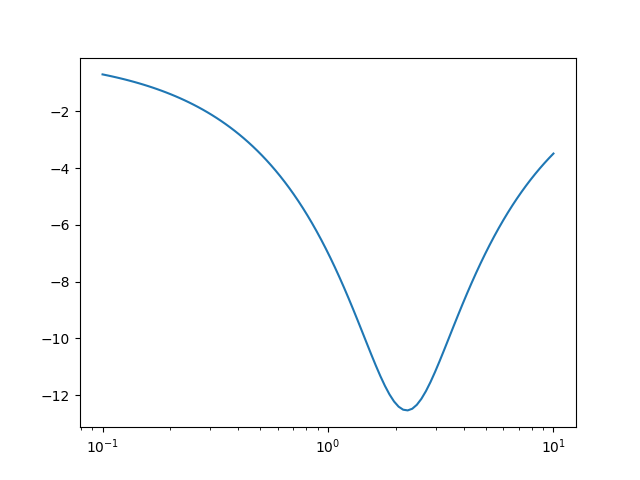
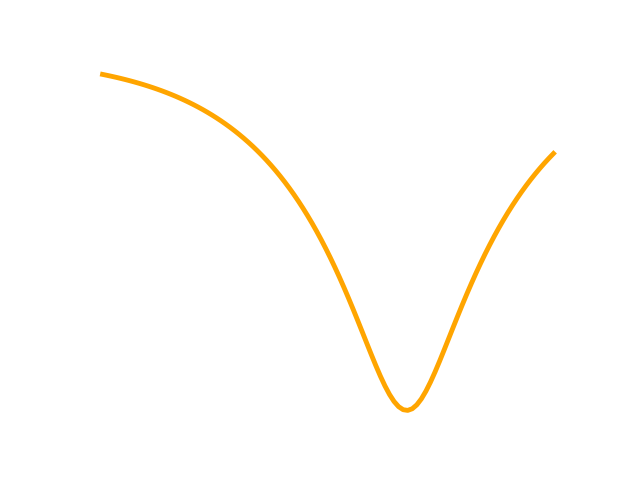
fine tune

diff --git a/scroll.py b/scroll.py
@@ -1,0 +1,90 @@
+import sys
+
+from PyQt5.QtWidgets import (
+    QApplication,
+    QGridLayout,
+    QPushButton,
+    QScrollArea,
+    QVBoxLayout,
+    QWidget,
+)
+
+
+class ScrollAreaExample(QWidget):
+    def __init__(self):
+        super().__init__()
+
+        self.init_ui()
+
+    def init_ui(self):
+        # Create the main layout
+        main_layout = QVBoxLayout(self)
+
+        # Create the first scroll area
+        self.scroll_area1 = QScrollArea(self)
+        self.scroll_area1.setWidgetResizable(True)
+        main_layout.addWidget(self.scroll_area1)
+
+        # Create a widget to contain the buttons for the first scroll area
+        self.widget1 = QWidget()
+        self.scroll_area1.setWidget(self.widget1)
+
+        # Create a grid layout for the buttons in the first scroll area
+        self.layout1 = QGridLayout(self.widget1)
+        self.populate_buttons()
+
+        # Create the second scroll area
+        self.scroll_area2 = QScrollArea(self)
+        self.scroll_area2.setWidgetResizable(True)
+        main_layout.addWidget(self.scroll_area2)
+
+        # Create a widget to contain the buttons for the second scroll area
+        self.widget2 = QWidget()
+        self.scroll_area2.setWidget(self.widget2)
+
+        # Create a grid layout for the buttons in the second scroll area
+        self.layout2 = QGridLayout(self.widget2)
+
+        # Set the main layout for the widget
+        self.setLayout(main_layout)
+
+        # Show the GUI
+        self.setGeometry(100, 100, 600, 400)
+        self.setWindowTitle("Scroll Area Example")
+        self.show()
+
+    def populate_buttons(self):
+        # Create and add buttons to the first scroll area layout
+        for i in range(10):
+            button = QPushButton(f"Button {i}")
+            button.clicked.connect(
+                lambda _, btn=button: self.on_button_clicked(
+                    btn, self.layout1, self.layout2
+                )
+            )
+            self.layout1.addWidget(button, i // 3, i % 3)
+
+    def on_button_clicked(self, button, source_layout, target_layout):
+        # Remove the button from the source layout
+        source_layout.removeWidget(button)
+
+        # Add the button to the target layout
+        target_layout.addWidget(button)
+
+        # Adjust the scroll bar positions
+        self.scroll_area1.verticalScrollBar().setValue(
+            self.scroll_area1.verticalScrollBar().maximum()
+        )
+        self.scroll_area2.verticalScrollBar().setValue(
+            self.scroll_area2.verticalScrollBar().maximum()
+        )
+
+
+def main():
+    app = QApplication(sys.argv)
+    ex = ScrollAreaExample()
+    sys.exit(app.exec_())
+
+
+if __name__ == "__main__":
+    main()

diff --git a/Filter/filterDesignUI.py b/Filter/filterDesignUI.py
@@ -352,15 +352,15 @@ class Ui_FilterDesigner(object):
         self.allPass09 = ProcessButton(
             "a = 4", "Icons\processing.png", 4, self.scrollAreaWidgetContents
         )
-        self.gridLayout.addWidget(self.allPass01, 0, 0, 1, 1)
-        self.gridLayout.addWidget(self.allPass02, 0, 1, 1, 1)
-        self.gridLayout.addWidget(self.allPass03, 0, 2, 1, 1)
-        self.gridLayout.addWidget(self.allPass04, 1, 0, 1, 1)
-        self.gridLayout.addWidget(self.allPass05, 1, 1, 1, 1)
-        self.gridLayout.addWidget(self.allPass06, 1, 2, 1, 1)
-        self.gridLayout.addWidget(self.allPass07, 2, 0, 1, 1)
-        self.gridLayout.addWidget(self.allPass08, 2, 1, 1, 1)
-        self.gridLayout.addWidget(self.allPass09, 2, 2, 1, 1)
+        self.gridLayout.addWidget(self.allPass01, 0, 0)
+        self.gridLayout.addWidget(self.allPass02, 0, 1)
+        self.gridLayout.addWidget(self.allPass03, 0, 2)
+        self.gridLayout.addWidget(self.allPass04, 1, 0)
+        self.gridLayout.addWidget(self.allPass05, 1, 1)
+        self.gridLayout.addWidget(self.allPass06, 1, 2)
+        self.gridLayout.addWidget(self.allPass07, 2, 0)
+        self.gridLayout.addWidget(self.allPass08, 2, 1)
+        self.gridLayout.addWidget(self.allPass09, 2, 2)
 
         self.retranslateUi(FilterDesigner)
         QtCore.QMetaObject.connectSlotsByName(FilterDesigner)

diff --git a/All-Pass_Phase_Responses/allPassExamples.py b/All-Pass_Phase_Responses/allPassExamples.py
@@ -6,9 +6,11 @@ a_values = [0.7, 1 + 2j, 0.3 + 0.2j, 1.5j, 5 + 1j, -0.9, 1.2]
 for i, a in enumerate(a_values):
     sys = signal.TransferFunction([1, -a], [1, a])
     w, phase, _ = sys.bode()
-    plt.semilogx(w, phase)
+    plt.semilogx(w, phase, color="orange", linewidth=3.5)
     # plt.title(f"Phase response of all-pass filter with a={a}")
     # plt.xlabel("Frequency (rad/s)")
     # plt.ylabel("Phase (deg)")
-    plt.savefig(f"phase_response_{i}.png")
+    plt.axis("off")
+    plt.gca().set_facecolor("orange")
+    plt.savefig(f"phase_response_{i}.png", transparent=True)
     plt.clf()

diff --git a/Filter/libraryButton.py b/Filter/libraryButton.py
@@ -25,7 +25,7 @@ class ProcessButton(QPushButton):
 
         icon_label = QLabel()
         icon_label.setAlignment(Qt.AlignCenter)
-        icon_label.setPixmap(QPixmap(image_path).scaled(50, 50, Qt.KeepAspectRatio))
+        icon_label.setPixmap(QPixmap(image_path).scaled(75, 75, Qt.KeepAspectRatio))
         layout.addWidget(icon_label)
 
         text_label = QLabel(name)
